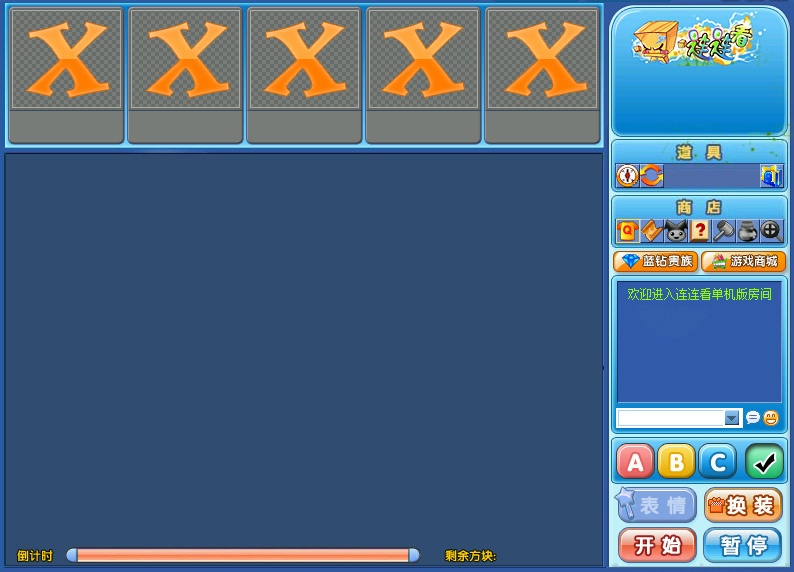
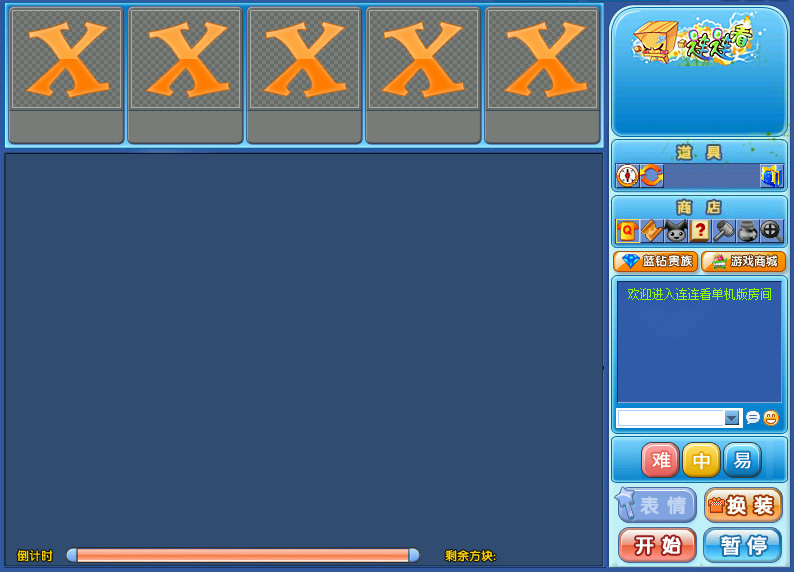
add difficulties change

Changed region(s): [[0.7557, 0.743, 0.9975, 0.8619]]

diff --git a/LianLianKan/LianLianKan.cpp b/LianLianKan/LianLianKan.cpp
@@ -15,12 +15,66 @@ LianLianKan::LianLianKan(QWidget *parent)
 	connect(ui.resortButton, SIGNAL(clicked()), this, SLOT(resortGame()));
 	connect(ui.navigateButton, SIGNAL(clicked()), this, SLOT(navigateGame()));
 	connect(ui.pauseButton, SIGNAL(clicked()), this, SLOT(pauseGame()));
-	
+	connect(ui.easyButton, SIGNAL(clicked()), this, SLOT(selectEasyMode()));
+	connect(ui.normalButton, SIGNAL(clicked()), this, SLOT(selectNormalMode()));
+	connect(ui.hardButton, SIGNAL(clicked()), this, SLOT(selectHardMode()));
 	loadResources();
 
 	// timers
 	connect(&lifeTimer, SIGNAL(timeout()), this, SLOT(updateTimer()));
 	score = 0;
+}
+
+void LianLianKan::resetDiffStyle() {
+	ui.easyButton->setStyleSheet(R"(
+		QPushButton { background: transparent; border: none;} 
+		QPushButton:pressed{
+			background: transparent;
+		})");
+	ui.normalButton->setStyleSheet(R"(
+		QPushButton { background: transparent; border: none;} 
+		QPushButton:pressed{
+			background: transparent;
+		})");
+	ui.hardButton->setStyleSheet(R"(
+		QPushButton { background: transparent; border: none;} 
+		QPushButton:pressed{
+			background: transparent;
+		})");
+}
+
+
+void LianLianKan::selectEasyMode() {
+	resetDiffStyle();
+	difficulty = easy;
+	ui.easyButton->setStyleSheet(R"(
+		QPushButton { background-image: url(:/LianLianKan/Images/blue.png); border: none;} 
+		QPushButton:pressed{
+			background: transparent;
+		})");
+
+}
+
+void LianLianKan::selectNormalMode() {
+	resetDiffStyle();
+	difficulty = normal;
+	ui.normalButton->setStyleSheet(R"(
+		QPushButton { background-image: url(:/LianLianKan/Images/yellow.png); border: none;} 
+		QPushButton:pressed{
+			background: transparent;
+		})");
+
+}
+
+void LianLianKan::selectHardMode() {
+	resetDiffStyle();
+	difficulty = difficult;
+	ui.hardButton->setStyleSheet(R"(
+		QPushButton { background-image: url(:/LianLianKan/Images/red.png); border: none;} 
+		QPushButton:pressed{
+			background: transparent;
+		})");
+
 }
 
 void LianLianKan::loadResources() {
@@ -67,7 +121,7 @@ void LianLianKan::updateUserInfo() {
 }
 
 void LianLianKan::drawBlocks() {
-	auto mapVec = map.makeMap(normal);
+	auto mapVec = map.makeMap(difficulty);
 	int block_count = 0;
 	for (int i = 17; i >= 0; i--)
 	{
@@ -115,7 +169,7 @@ void LianLianKan::startGame() {
 	drawBlocks();
 	ui.timeBar->setValue(0);
 	ui.timeBar->setMaximum(100);
-	lifeTimer.start(100);
+	lifeTimer.start(150);
 	ui.remainBlock->setText(QString::number(remainBlocks));
 	setBackgroundMusic();
 }

diff --git a/LianLianKan/LianLianKan.h b/LianLianKan/LianLianKan.h
@@ -43,9 +43,14 @@ private:
 	int remainResorts;
 	int remainNavigators;
 	QMediaPlayer player;
+	Difficulty difficulty = normal;
 	int score;
 	void loadResources();
+	void resetDiffStyle();
 private slots:
+	void selectNormalMode();
+	void selectEasyMode();
+	void selectHardMode();
 	void updateTimer();
 	void navigateGame();
 	void pauseGame();
